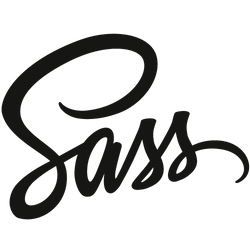
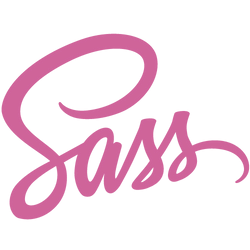
Color mistake done

Changed region(s): [[0.0, 0.112, 1.0, 0.896]]

diff --git a/src/components/routes/cv.module.scss b/src/components/routes/cv.module.scss
@@ -6,7 +6,7 @@
 
 .container{
     position: relative;
-    height: 2800px;
+    height: 3000px;
     width: 800px;
     margin: 0 auto;
     transition: .3s;
@@ -123,6 +123,38 @@
     transform: rotate(0deg) skew(0deg) translate(0, -10px);
 }
 
+#github:hover{
+    transform: rotate(0deg) skew(0deg) translate(0, -10px);
+}
+
+#git:hover{
+    transform: rotate(0deg) skew(0deg) translate(0, -10px);
+}
+
+#sass:hover{
+    transform: rotate(0deg) skew(0deg) translate(0, -10px);
+}
+
+#github:hover{
+    transform: rotate(0deg) skew(0deg) translate(0, -10px);
+}
+
+#c:hover{
+    transform: rotate(0deg) skew(0deg) translate(0, -10px);
+}
+
+#npm:hover{
+    transform: rotate(0deg) skew(0deg) translate(0, -10px);
+}
+
+#boot:hover{
+    transform: rotate(0deg) skew(0deg) translate(0, -10px);
+}
+
+#unity:hover{
+    transform: rotate(0deg) skew(0deg) translate(0, -10px);
+}
+
 
                                 //This is progress bar
 .bar{
@@ -217,7 +249,7 @@ li.wordpress:after{
 
     .container{
         width: 560px;
-        height: 760px;
+        height: 3500px;
     }
 
     .bar{
@@ -246,7 +278,7 @@ li.wordpress:after{
 
     .container{
         width: 460px;
-        height: 760px;
+        height: 3300px;
     }
 
     .bar{
@@ -277,7 +309,7 @@ li.wordpress:after{
 
     .container{
         width: 360px;
-        height: 760px;
+        height: 3200px;
     }
 
     .bar{

diff --git a/src/components/routes/cv.tsx b/src/components/routes/cv.tsx
@@ -15,6 +15,8 @@ import git from '../../media/git.png';
 import sass from '../../media/sass.png';
 import unity from '../../media/unity.png';
 import c from '../../media/c.png';
+import npm from '../../media/npm.png'
+import boot from '../../media/boot.png'
 
 
 type CvProps = {
@@ -66,9 +68,12 @@ const Cv: React.FC<CvProps> = () => {
     <img id={styles.react} src={react} alt="react" />  
     <img id={styles.github} src={github} alt="github" />  
     <img id={styles.git} src={git} alt="git" />  
-    <img id={styles.sass} src={sass} alt="sass" />  
-    <img id={styles.unity} src={unity} alt="unity" />  
-    <img id={styles.c} src={c} alt="c" />  
+    <img id={styles.sass} src={sass} alt="sass" />    
+    <img id={styles.c} src={c} alt="c" /> 
+    <img id={styles.npm} src={npm} alt="npm" /> 
+    <img id={styles.boot} src={boot} alt="boot" /> 
+    <img id={styles.unity} src={unity} alt="unity" />
+
   </div>
 
   <div className={styles.lang}>

diff --git a/src/components/routes/maincss.module.scss b/src/components/routes/maincss.module.scss
@@ -31,7 +31,7 @@
 .btn
 {
     background-color: #92A9BD;
-    // filter: drop-shadow(5px 5px #ccc);
+    filter: drop-shadow(5px 5px #b9d2e7);
     width: 45vw;
     
     font-size: 2.5rem;
@@ -39,7 +39,6 @@
     top: 20px;
     border-radius: 30px;
     border: none;
-
 
     a{
         color: #ffefef;
@@ -49,7 +48,7 @@
     }
 
     a:hover{
-        color: #7c99ac;
+        color: #00000088;
     }
 }
 
